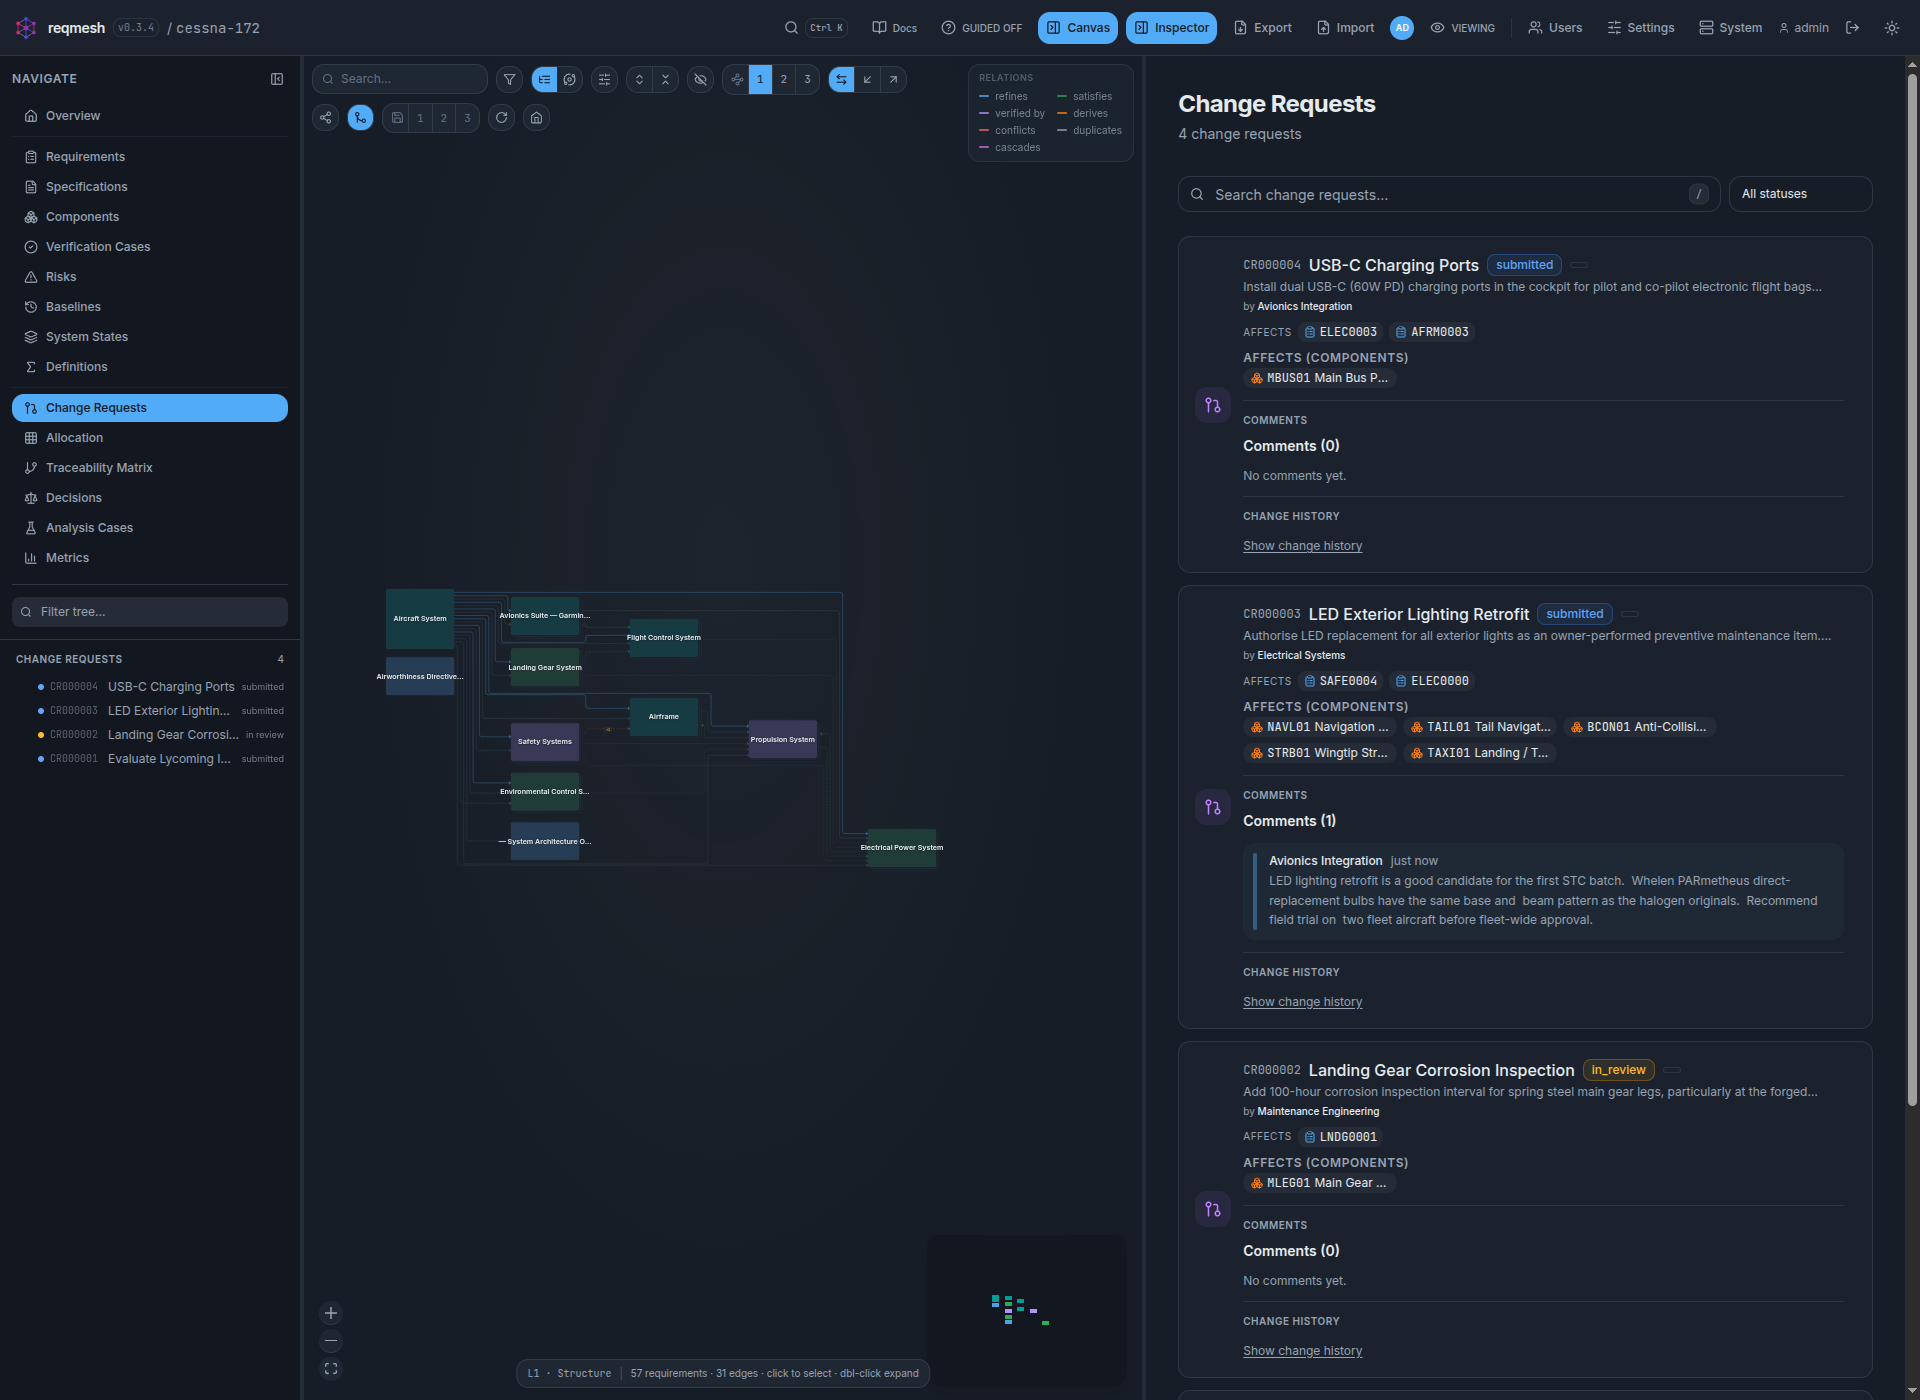
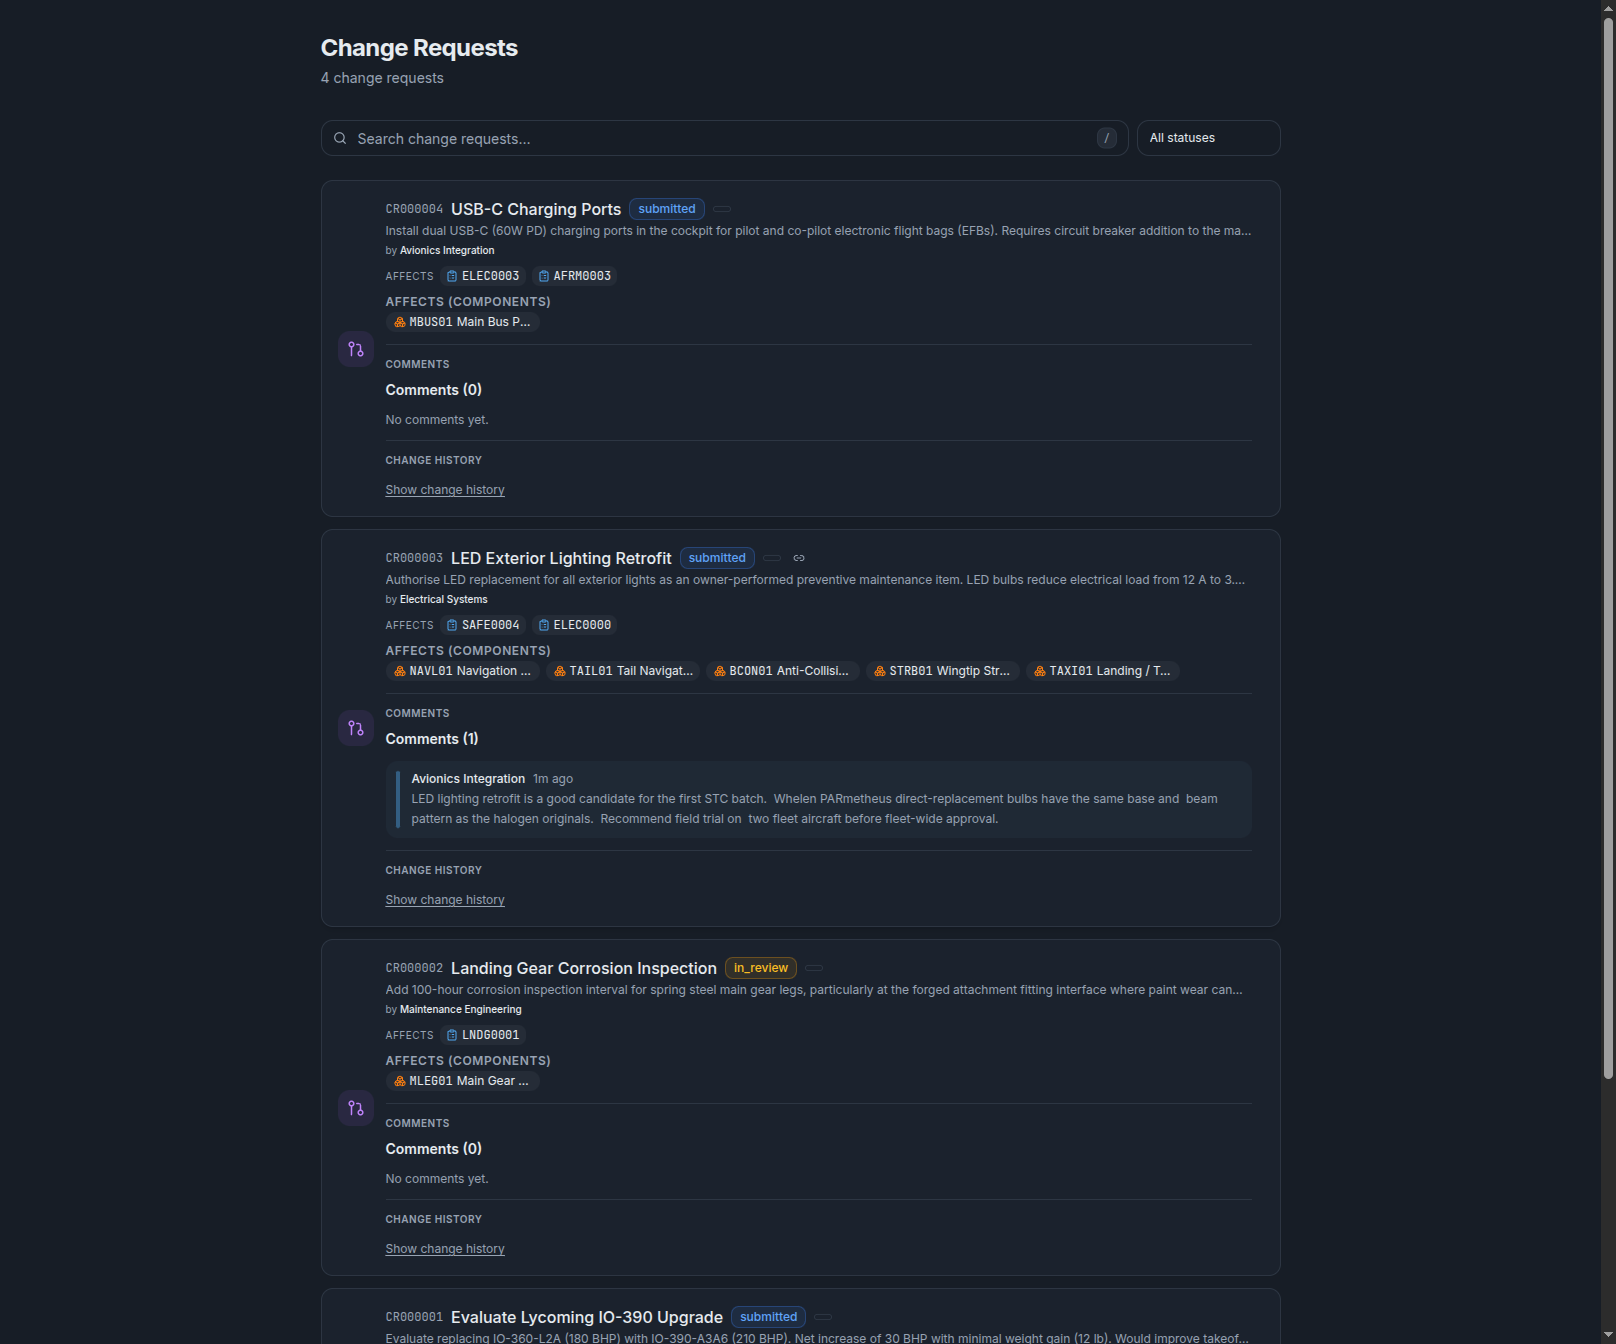
docs: reshoot the README screenshots, framed on their captions
The screenshots were all full-window captures taken at v0.3.4, so every one
spent most of its pixels on the same nav rail, header and canvas pane, and the
reader had to hunt for the thing the caption was talking about. Each shot is now
framed on what its caption actually describes: a caption about one card gets
that card, a caption about the workspace still gets the workspace.

Adds scripts/screenshots.mjs, because there was no generator — the set was
maintained by hand. It runs against the throwaway sandbox the run-app driver
seeds, so it never touches real projects or accounts and reshooting is one
command.

Two captions were describing things the image did not show, and both are now
honest rather than papered over:

- Metrics claimed "the activity-over-time chart". The chart renders
  "No activity in the selected window" on a freshly seeded demo, and did so in
  the old screenshot too — this was overselling from the day it was written.
  The caption now names what is actually there: coverage, gaps, quality scores,
  traceability and the risk profile.
- Git integration claimed "repository lifecycle". That is the Version Control
  card, which shows only its empty "not a git repository" state on a demo
  project. The shot is now the Git Integration card and the caption names its
  real contents.

The Users page seeds four demo accounts first, through the real API. One
account is left disabled so the Status column shows more than "Active" — with
[…]

diff --git a/README.md b/README.md
@@ -315,7 +315,7 @@ Changing the remote stays admin-only — it decides where the entire project
 history is shipped. Credentials embedded in a remote URL are redacted
 everywhere they could surface, including push error messages.
 
-![Git integration in project settings: remote configuration and repository lifecycle](docs/screenshots/git-panel.png)
+![Git integration in project settings: commit author, remote URL and the auto-commit schedule](docs/screenshots/git-panel.png)
 
 ## Interchange
 
@@ -463,7 +463,7 @@ than swamping the chart. The window defaults to the last 90 days and is capped
 at 365; entries are skipped by filename before being parsed, so the cost tracks
 the window rather than the project's whole history.
 
-![Coverage, quality, gaps and the activity-over-time chart](docs/screenshots/metrics.png)
+![Project metrics: coverage, gaps, quality scores, traceability and the risk profile](docs/screenshots/metrics.png)
 
 ## Allocation Matrix
 
